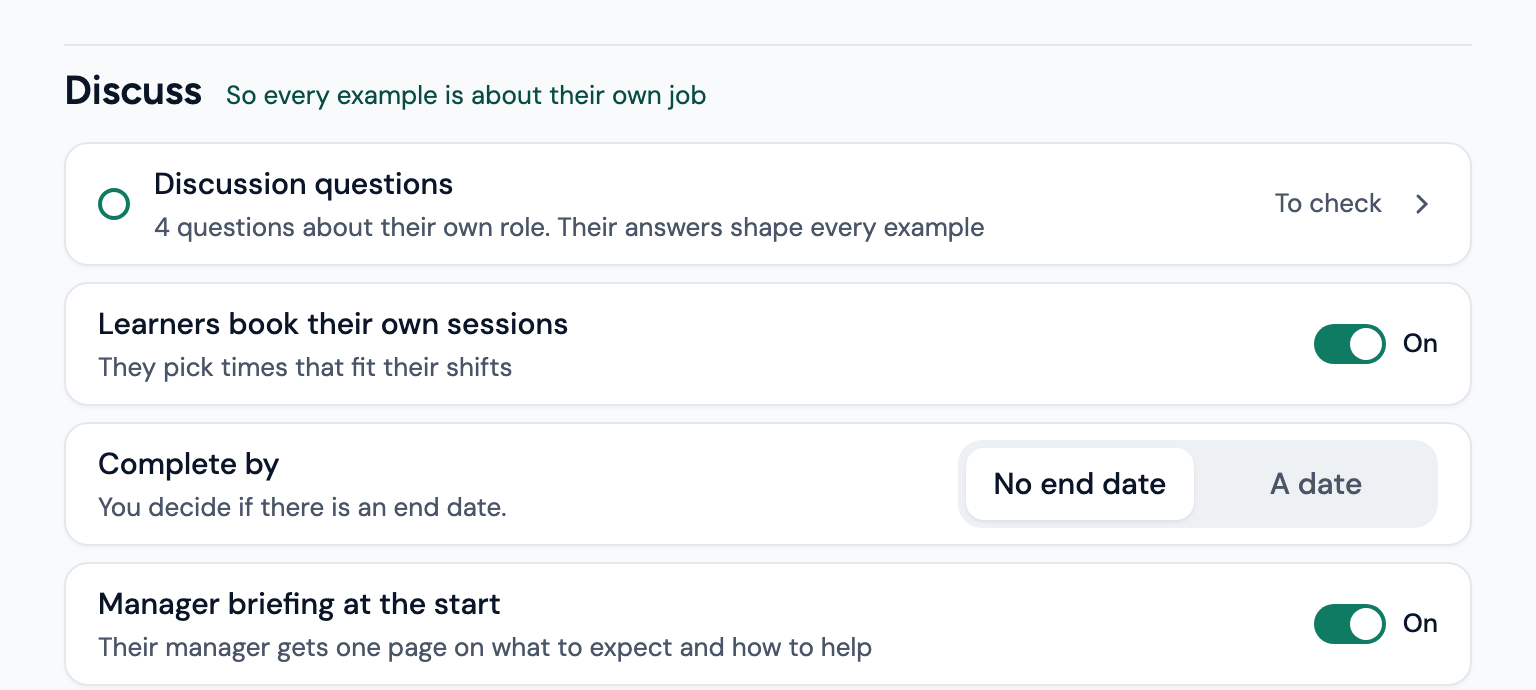
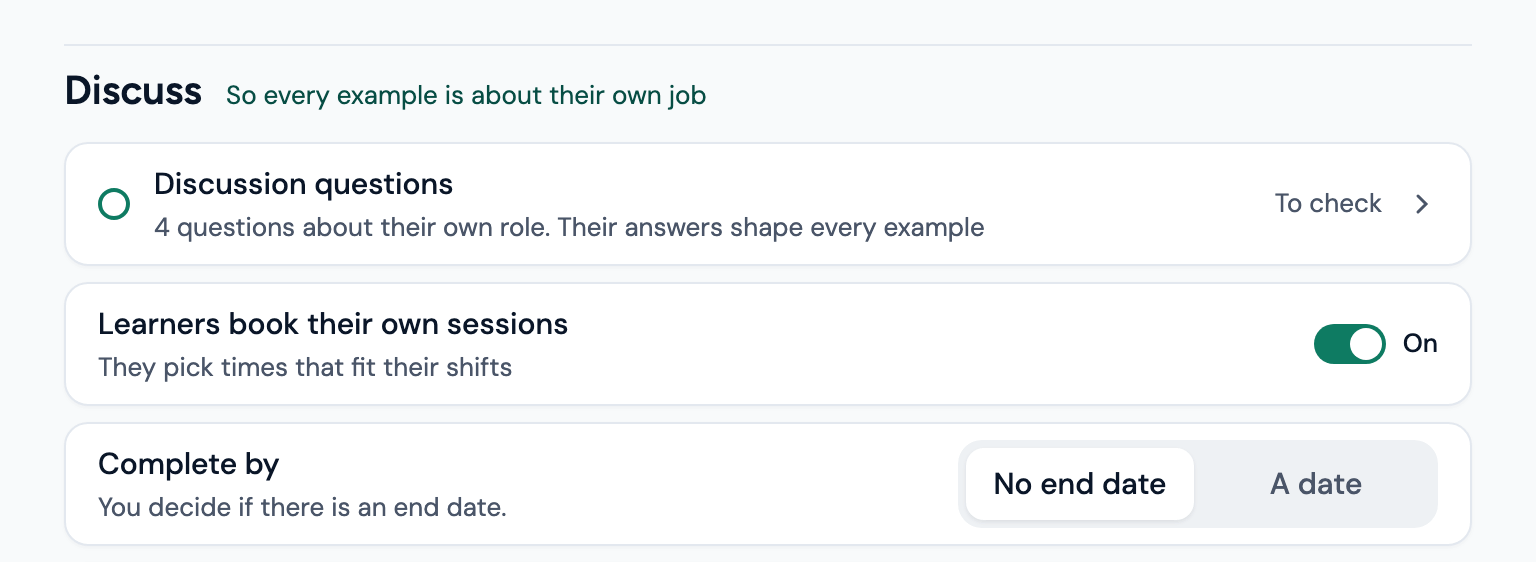
Take the manager briefing off the pathways walkthrough
The briefing is not built yet (Zavmo-v2 J3, #3078, comes later), so the
page promised clients something they cannot have. Removed the Discuss
sentence and the Launch bullet, and cropped the switch out of the Discuss
screenshot.

diff --git a/how-pathways-work/index.html b/how-pathways-work/index.html
@@ -384,10 +384,10 @@
       <div class="copy">
         <p>Discuss is about the learner's own role.</p>
         <p>They answer a few questions about their job. Their answers shape the examples in every lesson that follows. So the learning is about their work, not a case study.</p>
-        <p>They choose their own time and book their own sessions. You decide whether there is a date to finish by. Their manager gets one page on what to expect and how to help.</p>
+        <p>They choose their own time and book their own sessions. You decide whether there is a date to finish by.</p>
       </div>
       <div class="shots">
-        <figure><button class="zoom" type="button"><img src="09-discuss.png" alt="The Discuss stage: discussion questions, learners book their own sessions, complete by with no end date or a date, and a manager briefing at the start." width="768" height="345" loading="lazy"></button>
+        <figure><button class="zoom" type="button"><img src="09-discuss.png" alt="The Discuss stage: discussion questions, learners book their own sessions, and complete by with no end date or a date." width="768" height="281" loading="lazy"></button>
           <figcaption>Discuss, in the Teaching chapter.<span class="mark">Example pathway, not live data.</span></figcaption></figure>
       </div>
     </section>
@@ -468,7 +468,6 @@
         <ul>
           <li>You publish a version, and give it to people, a group or a department.</li>
           <li>You set whether it is required, and when it is due.</li>
-          <li>Managers are told, so they know to support their people.</li>
           <li>You choose the certificate, and a cover picture or video.</li>
           <li>Zavmo alerts you if anything needs a look.</li>
         </ul>
